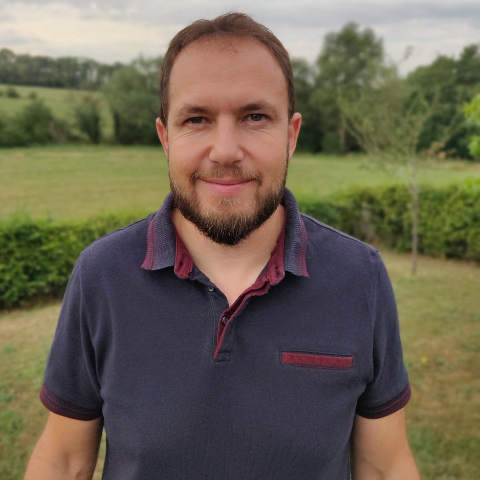
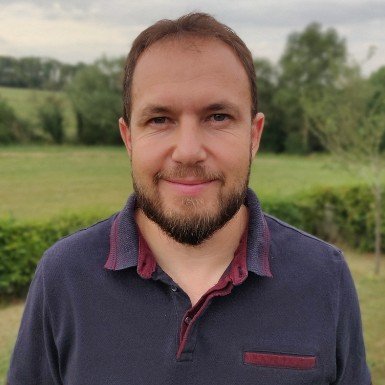
Add files via upload

diff --git a/index.html b/index.html
@@ -5,7 +5,7 @@
         <meta name="viewport" content="width=device-width, initial-scale=1, shrink-to-fit=no">
         <meta name="description" content="">
         <meta name="author" content="">
-        <title>Freelancer - Start Bootstrap Theme</title>
+        <title>Laurent THOUVENIN - Resume</title>
         <!-- Font Awesome icons (free version)-->
         <script src="https://cdnjs.cloudflare.com/ajax/libs/font-awesome/5.13.0/js/all.min.js" crossorigin="anonymous"></script>
         <!-- Core theme CSS (includes Bootstrap)-->
@@ -32,7 +32,10 @@
         </nav>
         <header class="masthead bg-primary text-white text-center">
             <div class="container d-flex align-items-center flex-column">
-                <!-- Masthead Avatar Image--><img class="masthead-avatar mb-5" src="assets/img/2020-08-13.jpg" alt="">
+                <!-- Masthead Avatar Image-->
+				<span class="d-none d-lg-block profile">
+				<img class="img-fluid img-profile rounded-circle mx-auto mb-25" src="assets/img/2020-08-13.jpg" alt="">
+				</span>
                 <!-- Masthead Heading-->
                 <h1 class="masthead-heading mb-0">Laurent THOUVENIN</h1>
                 <!-- Icon Divider-->

diff --git a/css/styles.css b/css/styles.css
@@ -7414,3 +7414,13 @@ form .row:first-child .floating-label-form-group {
 
 .btn-social {
   margin-bottom: 0.5rem; }
+  
+.img-profile {
+  max-width: 10rem;
+  max-height: 10rem;
+  border: 0.5rem solid rgba(255, 255, 255, 0.2);
+}
+
+.profile {
+  padding: 1rem;
+}
